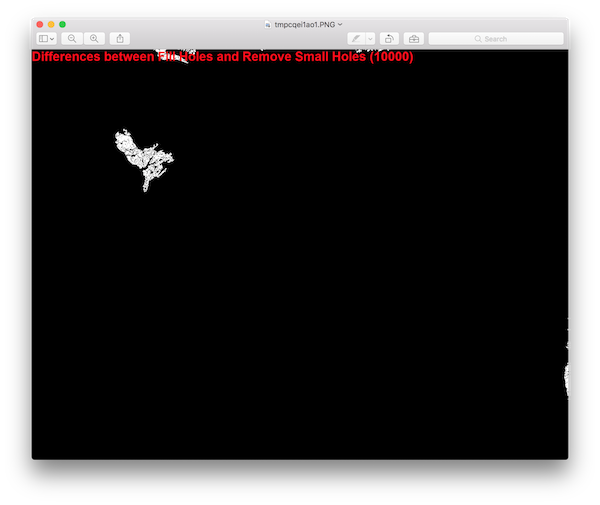
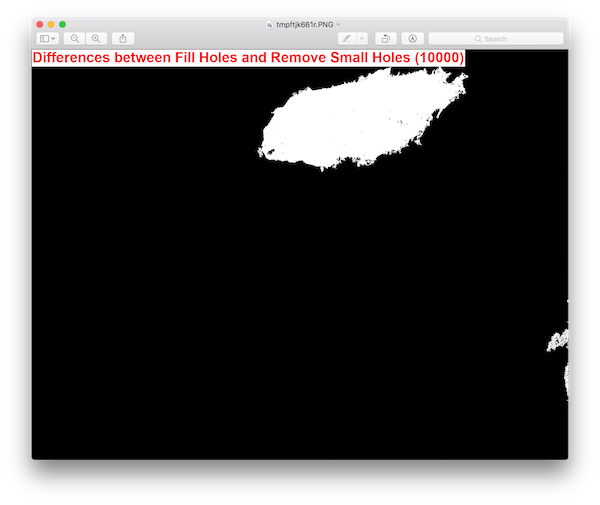
Fill holes doc updates

Changed region(s): [[0.03, 0.0297, 0.78, 0.3564], [0.18, 0.2376, 0.3, 0.3861], [0.9, 0.6535, 0.96, 0.7129]]

diff --git a/docs/index.md b/docs/index.md
@@ -1582,18 +1582,17 @@ with size values of 100 and 10,000.
 ```
 img_path = slide.get_training_image_path(2)
 img = slide.open_image(img_path)
-rgb = pil_to_np_rgb(img)
-display_img(rgb, "Original")
-no_grays = filter_grays(rgb, output_type="bool")
-display_img(no_grays, "No Grays")
-fill_holes = filter_binary_fill_holes(no_grays)
-display_img(fill_holes, "Fill Holes")
+rgb = util.pil_to_np_rgb(img)
+util.display_img(rgb, "Original", bg=True)
+no_grays = filter.filter_grays(rgb, output_type="bool")
+fill_holes = filter.filter_binary_fill_holes(no_grays)
+util.display_img(fill_holes, "Fill Holes", bg=True)
 
-remove_holes_100 = filter_remove_small_holes(no_grays, min_size=100, output_type="bool")
-display_img(fill_holes ^ remove_holes_100, "Differences between Fill Holes and Remove Small Holes (100)")
+remove_holes_100 = filter.filter_remove_small_holes(no_grays, min_size=100, output_type="bool")
+util.display_img(fill_holes ^ remove_holes_100, "Differences between Fill Holes and Remove Small Holes (100)", bg=True)
 
-remove_holes_10000 = filter_remove_small_holes(no_grays, min_size=10000, output_type="bool")
-display_img(fill_holes ^ remove_holes_10000, "Differences between Fill Holes and Remove Small Holes (10000)")
+remove_holes_10000 = filter.filter_remove_small_holes(no_grays, min_size=10000, output_type="bool")
+util.display_img(fill_holes ^ remove_holes_10000, "Differences between Fill Holes and Remove Small Holes (10000)", bg=True)
 
 ```
 
@@ -1613,11 +1612,11 @@ In this example, increasing the minimum small hole size results in less differen
 Console output:
 
 ```
-RGB                  | Time: 0:00:00.208171  Type: uint8   Shape: (1567, 2048, 3)
-Filter Grays         | Time: 0:00:00.108048  Type: bool    Shape: (1567, 2048)
-Binary Fill Holes    | Time: 0:00:00.088519  Type: bool    Shape: (1567, 2048)
-Remove Small Holes   | Time: 0:00:00.054506  Type: bool    Shape: (1567, 2048)
-Remove Small Holes   | Time: 0:00:00.056771  Type: bool    Shape: (1567, 2048)
+RGB                  | Time: 0:00:00.176696  Type: uint8   Shape: (1385, 1810, 3)
+Filter Grays         | Time: 0:00:00.082582  Type: bool    Shape: (1385, 1810)
+Binary Fill Holes    | Time: 0:00:00.069583  Type: bool    Shape: (1385, 1810)
+Remove Small Holes   | Time: 0:00:00.046232  Type: bool    Shape: (1385, 1810)
+Remove Small Holes   | Time: 0:00:00.044539  Type: bool    Shape: (1385, 1810)
 ```
 
 
